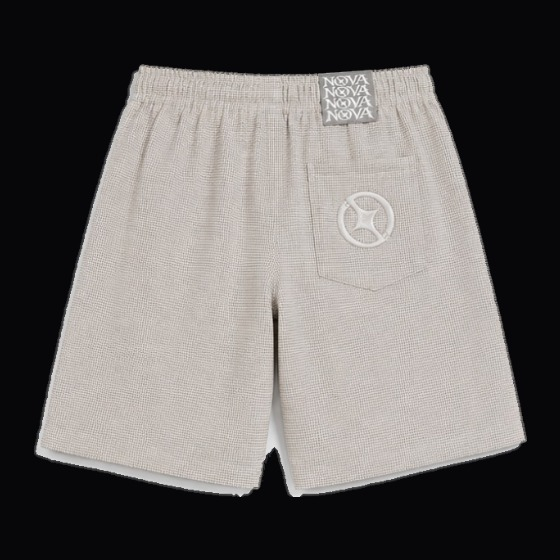
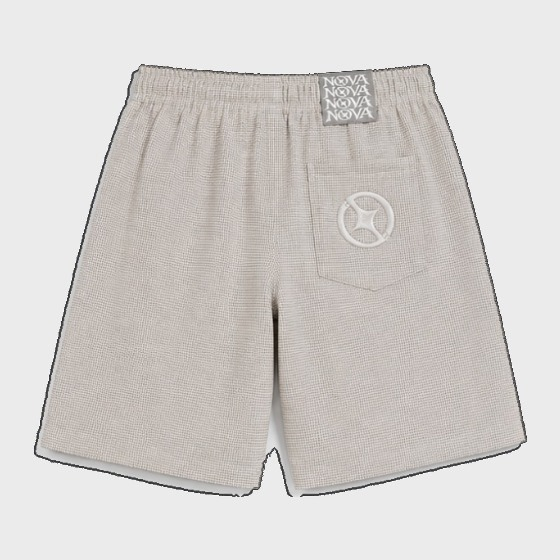
Fondo gris igual en todas las prendas, estado por ficha y fuera Stripe
El fondo venía horneado en los JPEG: blanco en las camisetas y casi negro en
el resto, así que no bastaba con cambiar el CSS. Se ha repintado en las
catorce fotos al mismo gris claro (#ebebeb), algo más oscuro que el blanco de
la página para que la prenda se recorte sobre ella. El fondo se separa por
inundación desde los bordes, de modo que los detalles oscuros de dentro -el
emblema, las etiquetas- se conservan, y se sustituye con
color + mascara*(gris - fondo), que no deja orla alrededor del contorno.

El sello deja de repetir "Drop 01" y dice el estado de cada prenda: la
camiseta gris agotada, la rosa con las tallas que quedan y el resto
proximamente.

Se retira la pasarela de pago: desaparecen el formulario de preventa, los
enlaces de reserva, el aviso de vuelta del pago y el endpoint /api/preventa
con sus enlaces de Stripe. Se mantiene la guia de tallas, que no formaba
parte del cobro.

diff --git a/index.html b/index.html
@@ -14,6 +14,7 @@
 <style>
 :root{
     --blanco:#ffffff;      /* la mitad clara */
+    --gris-ficha:#ebebeb;  /* el fondo de las fotos del catálogo */
     --tinta:#0e0e10;
     --gris:#6f6b66;
     --acento:#a4525f;      /* rosa oscuro, sacado de la propia camiseta */
@@ -555,6 +556,7 @@ h1.titulo{margin:0;line-height:0}
 .art{position:relative;margin:0;display:flex;flex-direction:column}
 
 /* el sello de la esquina, como el «NUEVO» de las tiendas */
+.sello--fin{background:var(--tinta);color:var(--blanco)}
 .sello{
     position:absolute;top:0;left:0;z-index:2;margin:0;
     padding:6px 9px;
@@ -565,13 +567,11 @@ h1.titulo{margin:0;line-height:0}
 /* el visor manda aquí sobre el de la ficha grande: proporción de catálogo */
 .catalogo .visor{
     max-width:none;width:100%;aspect-ratio:4/5;
-    /* Cada foto trae su propio fondo horneado: las camisetas en blanco y el
-       resto en negro. Si la ficha no lo copia, la prenda flota dentro de un
-       rectángulo de otro color. Así el encaje no se ve. */
-    background:var(--fondo-art,#fff);
+    /* El fondo de las fotos se repintó a este mismo gris, así que la prenda
+       se apoya en el tono de la ficha sin costura. Es algo más oscuro que el
+       blanco de la página para que cada prenda se recorte sobre ella. */
+    background:var(--gris-ficha);
 }
-.art--claro{--fondo-art:#ffffff}
-.art--noche{--fondo-art:#070709}
 .catalogo .visor img{object-fit:contain;padding:6%}
 
 .art-nombre{
@@ -580,16 +580,7 @@ h1.titulo{margin:0;line-height:0}
     color:var(--tinta);
 }
 .art-precio{margin:3px 0 0;font-size:12px;color:var(--tinta)}
-.art-precio.proximo{color:var(--suave,#8a8a8a)}
 
-.art-cta{
-    align-self:flex-start;margin-top:7px;
-    font-size:10px;letter-spacing:.16em;text-transform:uppercase;
-    color:var(--tinta);text-decoration:none;
-    border-bottom:1px solid var(--linea);padding-bottom:2px;
-    transition:border-color .25s ease,color .25s ease;
-}
-.art-cta:hover{color:var(--acento);border-bottom-color:var(--acento)}
 
 /* ---------- las coordenadas ---------- */
 .coords{padding-top:clamp(8px,2vh,20px)}
@@ -739,8 +730,8 @@ footer{
          ══════════════════════════════════════════════════════════════ -->
     <section class="catalogo" aria-label="Prendas del Drop 01">
 
-        <article class="art art--claro" id="camiseta">
-            <p class="sello">Drop 01</p>
+        <article class="art" id="camiseta">
+            <p class="sello sello--fin">Sold out</p>
             <button type="button" class="visor">
                 <img class="foto activa" data-color="gris" data-cara="delante" src="gris-delante.jpg"
                      width="920" height="780" alt="Camiseta NOVA Supply Clothing gris por delante, con el emblema en el pecho">
@@ -749,11 +740,10 @@ footer{
             </button>
             <h3 class="art-nombre">Camiseta · Gris lavado</h3>
             <p class="art-precio">47,50 €</p>
-            <a class="art-cta" href="#preventa">Reservar</a>
         </article>
 
-        <article class="art art--claro" id="camiseta-rosa">
-            <p class="sello">Drop 01</p>
+        <article class="art" id="camiseta-rosa">
+            <p class="sello">Quedan L · XL · XXL</p>
             <button type="button" class="visor">
                 <img class="foto activa" data-color="rosa" data-cara="delante" src="rosa-delante.jpg"
                      width="920" height="780" alt="Camiseta NOVA Supply Clothing rosa por delante, con el emblema en el pecho">
@@ -762,11 +752,10 @@ footer{
             </button>
             <h3 class="art-nombre">Camiseta · Rosa lavado</h3>
             <p class="art-precio">47,50 €</p>
-            <a class="art-cta" href="#preventa">Reservar</a>
         </article>
 
-        <article class="art art--noche" id="sudadera">
-            <p class="sello">Drop 01</p>
+        <article class="art" id="sudadera">
+            <p class="sello">Próximamente</p>
             <button type="button" class="visor">
                 <img class="foto activa" data-cara="delante" src="sud-delante.jpg" width="900" height="840" loading="lazy"
                      alt="Sudadera NOVA Supply Clothing por delante, con cremallera y Studio y Nova en las mangas">
@@ -774,11 +763,10 @@ footer{
                      alt="Sudadera NOVA Supply Clothing por detrás, con el emblema grande en la espalda">
             </button>
             <h3 class="art-nombre">Sudadera</h3>
-            <p class="art-precio proximo">Próximamente</p>
         </article>
 
-        <article class="art art--noche" id="p-camisa">
-            <p class="sello">Drop 01</p>
+        <article class="art" id="p-camisa">
+            <p class="sello">Próximamente</p>
             <button type="button" class="visor">
                 <img class="foto activa" data-cara="delante" src="d2-camisa-delante.jpg" width="560" height="560" loading="lazy"
                      alt="Camisa de NOVA Supply Clothing, camisa de manga corta gris con el emblema en el pecho">
@@ -786,11 +774,10 @@ footer{
                      alt="Camisa de NOVA Supply Clothing, camisa de manga corta gris con NOVA en grande en la espalda">
             </button>
             <h3 class="art-nombre">Camisa</h3>
-            <p class="art-precio proximo">Próximamente</p>
         </article>
 
-        <article class="art art--noche" id="p-tirantes">
-            <p class="sello">Drop 01</p>
+        <article class="art" id="p-tirantes">
+            <p class="sello">Próximamente</p>
             <button type="button" class="visor">
                 <img class="foto activa" data-cara="delante" src="d2-tirantes-delante.jpg" width="560" height="560" loading="lazy"
                      alt="Camiseta de tirantes de NOVA Supply Clothing, blanca con el emblema en el pecho">
@@ -798,11 +785,10 @@ footer{
                      alt="Camiseta de tirantes de NOVA Supply Clothing, blanca lisa por detrás">
             </button>
             <h3 class="art-nombre">Tirantes</h3>
-            <p class="art-precio proximo">Próximamente</p>
         </article>
 
-        <article class="art art--noche" id="p-vaqueros">
-            <p class="sello">Drop 01</p>
+        <article class="art" id="p-vaqueros">
+            <p class="sello">Próximamente</p>
             <button type="button" class="visor">
                 <img class="foto activa" data-cara="delante" src="d2-vaqueros-delante.jpg" width="560" height="560" loading="lazy"
                      alt="Vaqueros cortos de NOVA Supply Clothing, pantalón vaquero corto claro por delante">
@@ -810,11 +796,10 @@ footer{
                      alt="Vaqueros cortos de NOVA Supply Clothing, pantalón vaquero corto claro con el emblema en el bolsillo">
             </button>
             <h3 class="art-nombre">Vaqueros</h3>
-            <p class="art-precio proximo">Próximamente</p>
         </article>
 
-        <article class="art art--noche" id="p-short">
-            <p class="sello">Drop 01</p>
+        <article class="art" id="p-short">
+            <p class="sello">Próximamente</p>
             <button type="button" class="visor">
                 <img class="foto activa" data-cara="delante" src="d2-short-delante.jpg" width="560" height="560" loading="lazy"
                      alt="Pantalón corto de NOVA Supply Clothing, beige con NOVA en la pernera">
@@ -822,65 +807,16 @@ footer{
                      alt="Pantalón corto de NOVA Supply Clothing, beige con el emblema en el bolsillo">
             </button>
             <h3 class="art-nombre">Short</h3>
-            <p class="art-precio proximo">Próximamente</p>
         </article>
 
     </section>
 
     <section class="venta">
-        <!-- La caja es un formulario de verdad contra /api/preventa, que
-             redirige a Stripe con la talla y el color elegidos. Funciona
-             igual aunque no haya JavaScript.
-             Va plegada detrás de un botón para que la portada se vea limpia
-             y se llegue antes al resto; al abrirla sale todo tal cual:
-             precio, talla, color y pago. Es un <details>, así que abre y
-             cierra sin JavaScript, igual que el formulario de dentro. -->
-        <details class="preventa" id="preventa">
-            <summary class="preventa-abre">
-                <span class="cerrada">Reservar en preventa
-                    <svg viewBox="0 0 16 16" fill="none" aria-hidden="true"><path d="M2.5 8h11M9 3.5 13.5 8 9 12.5" stroke="currentColor" stroke-width="1.6" stroke-linecap="round" stroke-linejoin="round"/></svg>
-                </span>
-                <h2 class="abierta">Apúntate ya a la preventa</h2>
-            </summary>
-
-            <p class="precio">
-                <span class="sr-only">Precio</span><b>47,50&nbsp;€</b>
-            </p>
-            <p class="recogida">Recogida en Vecindario · Sin envíos · Llega en un mes</p>
-
-            <form class="eleccion" action="/api/preventa" method="get">
-                <fieldset>
-                    <legend>Talla</legend>
-                    <div class="opciones">
-                        <label class="opcion"><input type="radio" name="talla" value="S" required><span>S</span></label>
-                        <label class="opcion"><input type="radio" name="talla" value="M"><span>M</span></label>
-                        <label class="opcion"><input type="radio" name="talla" value="L"><span>L</span></label>
-                        <label class="opcion"><input type="radio" name="talla" value="XL"><span>XL</span></label>
-                        <label class="opcion"><input type="radio" name="talla" value="2XL"><span>2XL</span></label>
-                    </div>
-                    <!-- Sin JavaScript el enlace abre la tabla como imagen suelta;
-                         con él se queda en la propia página, en el cuadro de abajo. -->
-                    <p class="guia-linea"><a class="guia" id="guia" href="talla-gris.jpeg">Guía de tallas</a></p>
-                </fieldset>
-
-                <fieldset>
-                    <legend>Color</legend>
-                    <div class="opciones">
-                        <label class="opcion"><input type="radio" name="color" value="gris" required><span><i class="punto" style="--c:#7b7676"></i>Gris</span></label>
-                        <label class="opcion"><input type="radio" name="color" value="rosa"><span><i class="punto" style="--c:#e79aba"></i>Rosa</span></label>
-                    </div>
-                </fieldset>
-
-                <button type="submit" class="pago">
-                    <span>Reservar</span>
-                    <svg viewBox="0 0 16 16" fill="none" aria-hidden="true"><path d="M2.5 8h11M9 3.5 13.5 8 9 12.5" stroke="currentColor" stroke-width="1.6" stroke-linecap="round" stroke-linejoin="round"/></svg>
-                </button>
-            </form>
-
-            <p class="pago-legal">Al reservar aceptas las <a href="condiciones.html">condiciones de compra</a> y la <a href="privacidad.html">política de privacidad</a>.</p>
-
-            <p class="pago-nota" id="pago-nota"></p>
-        </details>
+        <!-- Aquí vivía la caja de preventa, que llevaba a los enlaces de pago
+             de Stripe. Retirada a petición: ahora el catálogo sólo informa del
+             estado de cada prenda. Queda la guía de tallas, que no formaba
+             parte del cobro y sigue siendo útil para elegir. -->
+        <p class="guia-linea"><a class="guia" id="guia" href="talla-gris.jpeg">Guía de tallas</a></p>
 
         <!-- Las dos tablas de medidas. Es un <dialog>: el propio navegador se
              encarga de oscurecer el fondo, atrapar el foco y cerrarlo con Esc,
@@ -1143,35 +1079,6 @@ function montarVisor(cfg){
         if(e.clientX < r.left || e.clientX > r.right ||
            e.clientY < r.top  || e.clientY > r.bottom) caja.close();
     });
-})();
-
-/* ---------- la vuelta del pago ----------
-   El botón de la caja es un enlace normal a /api/preventa, que redirige a
-   Stripe: eso funciona solo, sin JavaScript. Lo único que hace falta aquí
-   es recoger al cliente cuando Stripe lo devuelve a la web, en /?pago=ok
-   si ha pagado o en /?pago=no si se ha echado atrás. */
-(function(){
-    var caja = document.getElementById('preventa');
-    var nota = document.getElementById('pago-nota');
-    if(!caja || !nota) return;
-
-    var vuelta = /[?&]pago=(ok|no)(&|$)/.exec(location.search);
-    if(!vuelta) return;
-
-    if(history.replaceState){                    // limpia la barra de direcciones
-        history.replaceState(null, '', location.pathname + location.hash);
-    }
-
-    caja.open = true;        // la caja viene plegada: sin esto no se lee nada
-
-    if(vuelta[1] === 'ok'){
-        caja.classList.add('pagado');
-        nota.innerHTML = '<b>Plaza reservada</b>Te acaba de llegar el resguardo por correo: guárdalo, es lo que tienes que enseñar al recogerla. ' +
-                          'La camiseta llega en <b>un mes aproximadamente</b> y te escribimos en cuanto esté. ' +
-                          'Se recoge en Av. del Atlántico 317, Vecindario, de 10:00 a 18:00.';
-    }else{
-        nota.textContent = 'Pago cancelado. La plaza sigue libre, puedes reservarla cuando quieras.';
-    }
 })();
 
 /* ---------- aviso de próximos drops ----------
